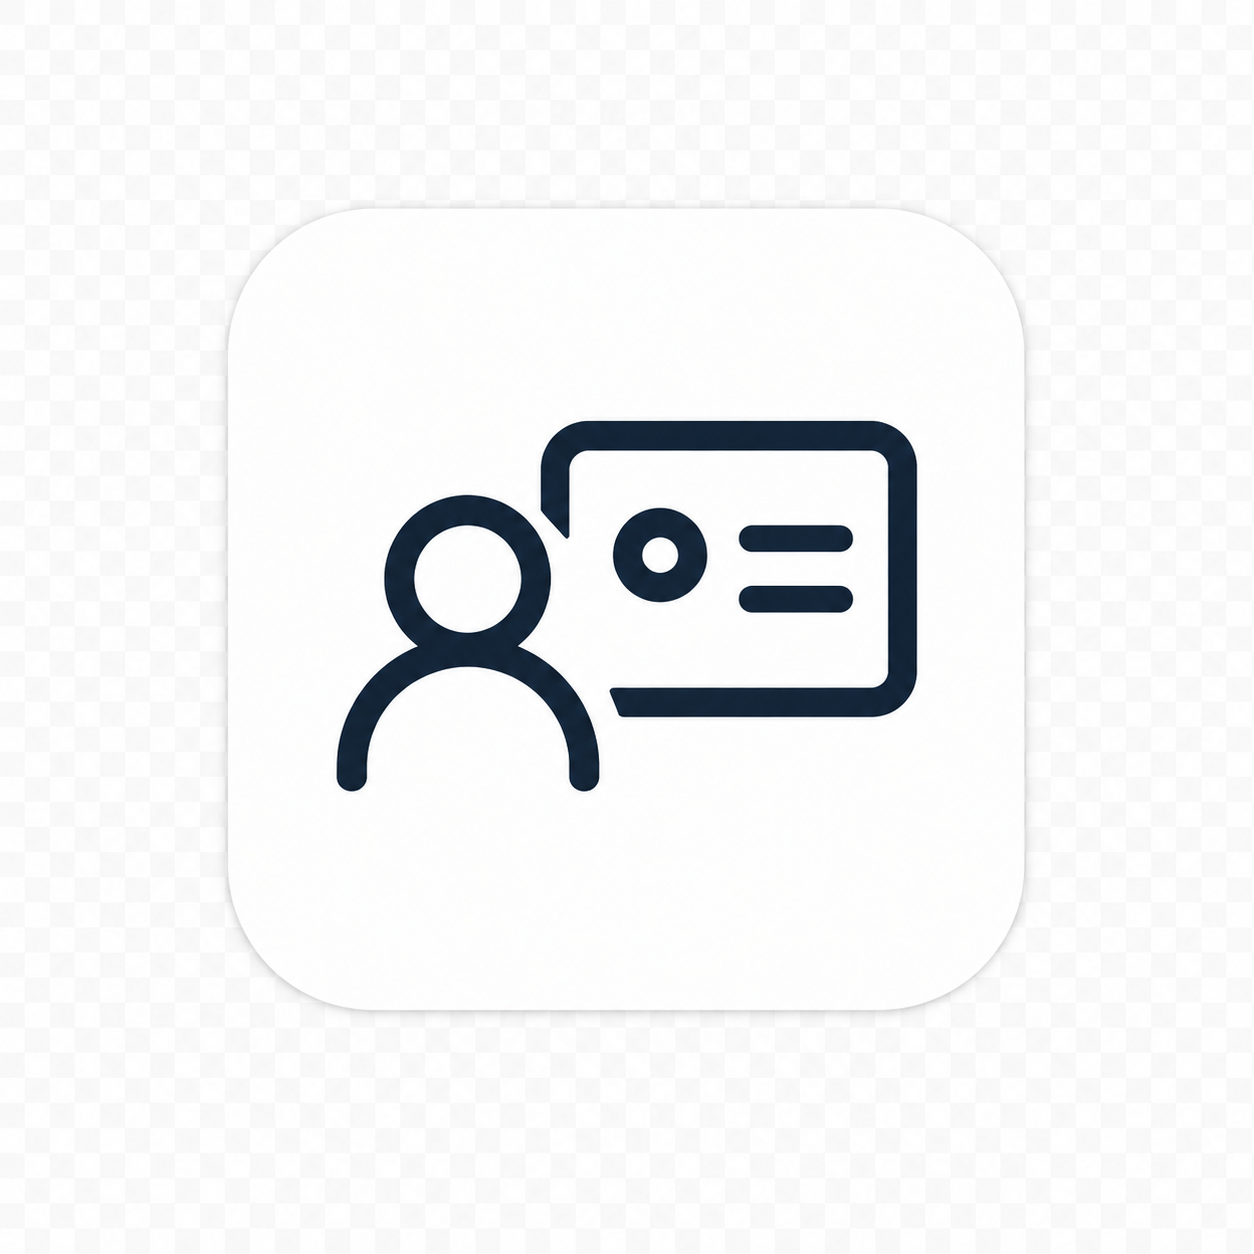
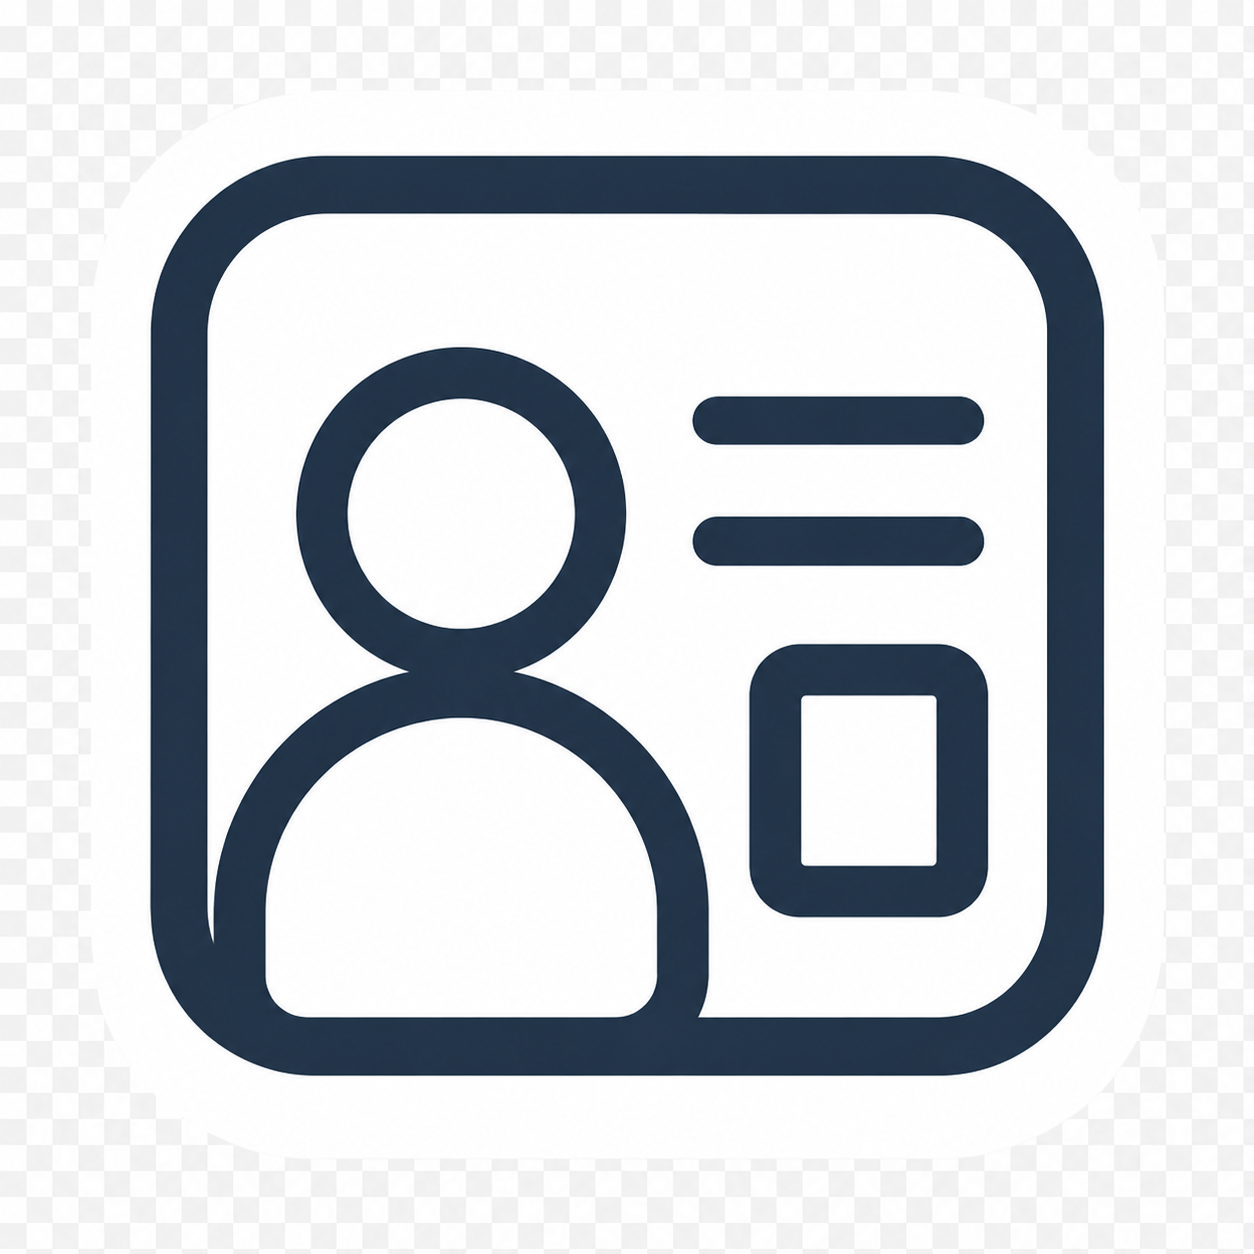
5.13 마이페이지

Changed region(s): [[0.0933, 0.1244, 0.9019, 0.8708]]

diff --git a/lib/corporate-card/storage.ts b/lib/corporate-card/storage.ts
@@ -56,6 +56,47 @@ function rowToAssignment(row: ScheduleAssignmentRpcRow): ScheduleAssignmentItem 
   };
 }
 
+function dedupeAssignmentsByScheduleItemId<T extends ScheduleAssignmentItem>(assignments: T[]) {
+  const seen = new Set<string>();
+  return assignments.filter((assignment) => {
+    if (seen.has(assignment.scheduleItemId)) return false;
+    seen.add(assignment.scheduleItemId);
+    return true;
+  });
+}
+
+function getLogicalAssignmentKey(assignment: ScheduleAssignmentItem) {
+  return [
+    assignment.scheduleDate,
+    assignment.photographerProfileId ?? assignment.photographerName,
+    assignment.photographerName.trim(),
+    assignment.scheduleContent.trim().replace(/\s+/g, " "),
+  ].join("::");
+}
+
+function hasPartnerDetails(item: Pick<MyScheduleAssignmentItem, "audioManName" | "seniorName" | "memoText" | "autoGeneratedText" | "isMemoCustom">) {
+  return Boolean(item.audioManName.trim() || item.seniorName.trim() || item.isMemoCustom || item.memoText.trim() !== item.autoGeneratedText.trim());
+}
+
+function dedupeMyAssignmentsByLogicalSchedule(items: MyScheduleAssignmentItem[]) {
+  const map = new Map<string, MyScheduleAssignmentItem>();
+
+  items.forEach((item) => {
+    const key = getLogicalAssignmentKey(item);
+    const existing = map.get(key);
+    if (!existing) {
+      map.set(key, item);
+      return;
+    }
+
+    if (hasPartnerDetails(item) && !hasPartnerDetails(existing)) {
+      map.set(key, item);
+    }
+  });
+
+  return Array.from(map.values());
+}
+
 function getSchemaMessage(error: unknown, objectLabel: string) {
   return getSupabaseStorageErrorMessage(error, objectLabel);
 }
@@ -110,7 +151,7 @@ export async function fetchMyScheduleAssignments(monthKey: string) {
   }
 
   const rows = Array.isArray(data) ? (data as ScheduleAssignmentRpcRow[]) : [];
-  return rows.map(rowToAssignment);
+  return dedupeAssignmentsByScheduleItemId(rows.map(rowToAssignment));
 }
 
 export async function fetchPartnerScheduleAssignments(dateKey: string) {
@@ -124,7 +165,7 @@ export async function fetchPartnerScheduleAssignments(dateKey: string) {
   }
 
   const rows = Array.isArray(data) ? (data as ScheduleAssignmentRpcRow[]) : [];
-  const assignments = rows.map(rowToAssignment);
+  const assignments = dedupeAssignmentsByScheduleItemId(rows.map(rowToAssignment));
   const ids = assignments.map((item) => item.scheduleItemId);
   if (ids.length === 0) {
     return [] as PartnerScheduleAssignment[];
@@ -209,7 +250,7 @@ export async function fetchMyScheduleAssignmentsWithPartnerInfo(monthKey: string
 
   const partnerMap = new Map((partnerRows ?? []).map((row) => [row.schedule_item_id, row] as const));
 
-  return assignments.map((assignment) => {
+  const items = assignments.map((assignment) => {
     const partner = partnerMap.get(assignment.scheduleItemId);
     const audioManName = partner?.audio_man_name?.trim() ?? "";
     const seniorName = partner?.senior_name?.trim() ?? "";
@@ -238,4 +279,6 @@ export async function fetchMyScheduleAssignmentsWithPartnerInfo(monthKey: string
       missingFields,
     };
   });
+
+  return dedupeMyAssignmentsByLogicalSchedule(items);
 }

diff --git a/components/portal-shell.tsx b/components/portal-shell.tsx
@@ -148,6 +148,16 @@ function withVisibleChildren(link: PortalNavLink, childHrefs: string[]) {
   };
 }
 
+function withVisibleLeafChildren(link: PortalNavLink, childHrefs: string[]) {
+  if (!link.children) return link;
+  return {
+    ...link,
+    children: link.children
+      .filter((child) => childHrefs.includes(child.href))
+      .map((child) => ({ href: child.href, label: child.label })),
+  };
+}
+
 function hasEquipmentStatusAccessRole(role: UserRole | null | undefined) {
   return role === "desk" || role === "team_lead" || role === "admin";
 }
@@ -313,7 +323,7 @@ function getVisibleLinks(
           (link.href === "/review" && session.canReview && !reviewLocked) ||
           link.href === "/admin",
         )
-        .map((link) => (link.href === "/schedule" ? withVisibleChildren(link, ["/schedule/write"]) : link));
+        .map((link) => (link.href === "/schedule" ? withVisibleLeafChildren(link, ["/schedule/write"]) : link));
     default:
       return visibleRoleLinks.filter(
         (link) =>
